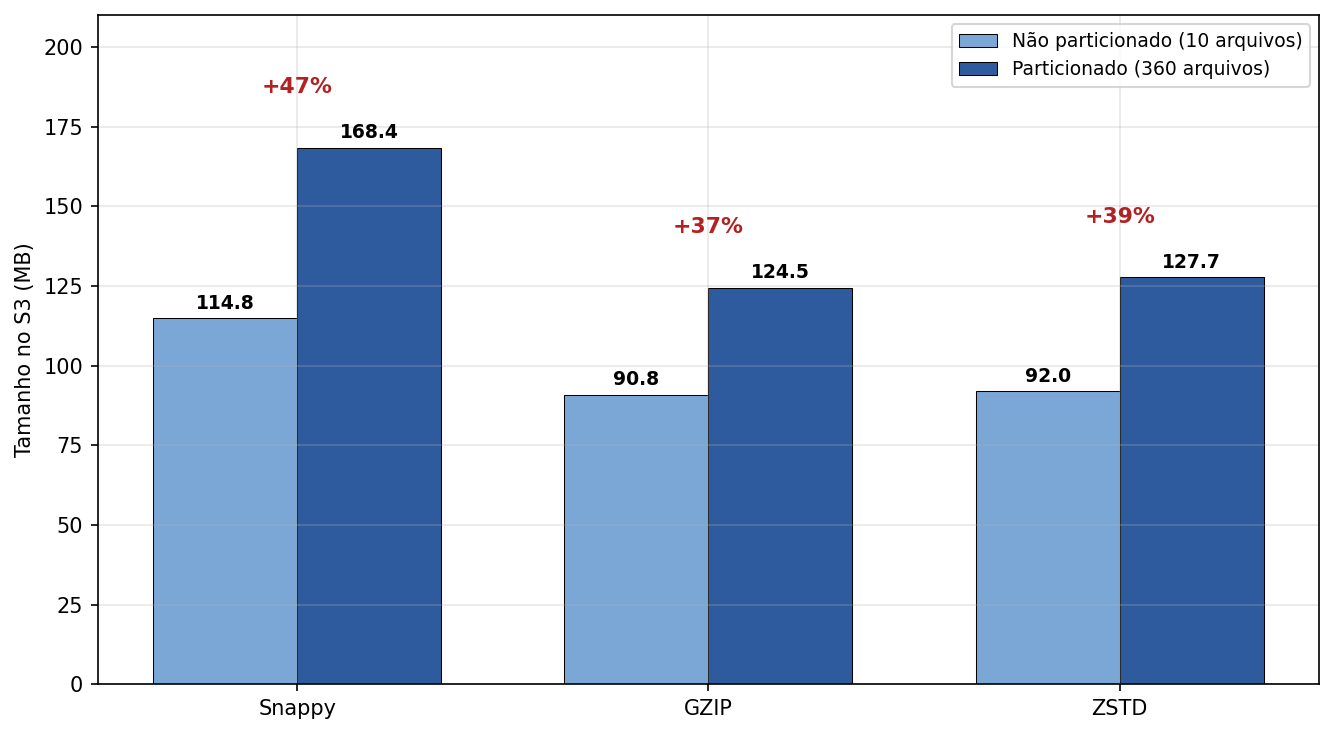
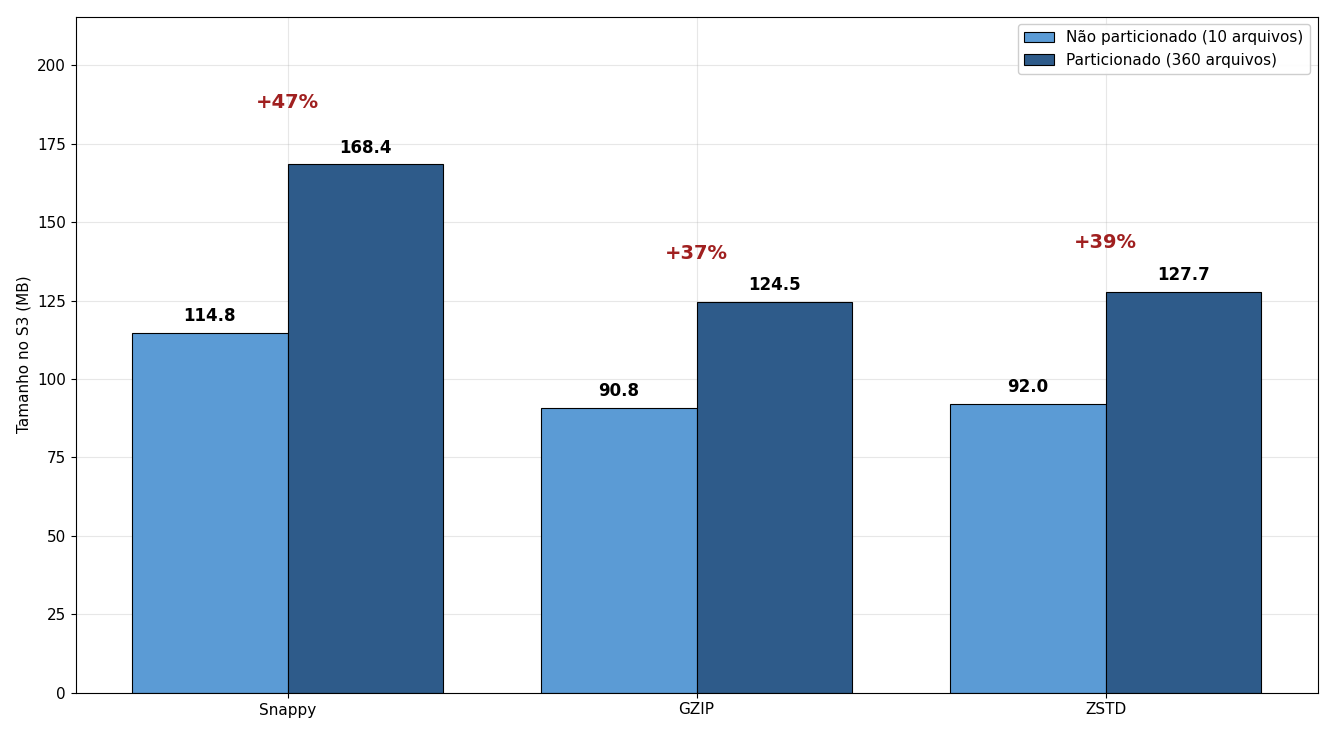
Ajustes nas figuras 1, 2 e 5 + script que gera as figuras

diff --git a/scripts/07_gerar_figuras.py b/scripts/07_gerar_figuras.py
@@ -1,21 +1,27 @@
 """
-07_gerar_figuras.py — Regenera as Figuras 3, 4 e 6 do artigo a partir de
-resultados/medicoes_completas.csv e resultados/armazenamento_s3.csv.
+07_gerar_figuras.py — Gera as seis figuras do artigo a partir de
+resultados/medicoes_completas.csv e resultados/armazenamento_s3.csv, de modo
+que qualquer alteração nos dados se propague às imagens.
 
-Motivação: as três figuras traziam anotações que afirmavam mais do que os dados
-sustentam. Este script as reconstrói a partir da fonte primária, de modo que
-qualquer alteração nos dados se propague às imagens.
+  Figura 1 — poda de partições no layout csv_particionado: volume varrido por
+             consulta, em escala logarítmica, contra a linha do csv_base.
+  Figura 2 — comparação entre os três codecs nos layouts particionados:
+             painel A com volume varrido, painel B com tempo de execução.
+  Figura 3 — volume varrido e tempo de execução para o par controlado em GZIP
+             e o CSV de referência, painel A em escala logarítmica.
+  Figura 4 — efeito isolado do particionamento sobre o tempo, com razão das
+             medianas e valor-p do teste de Mann-Whitney anotados em cada
+             consulta. A cor do rótulo distingue três casos: cor cheia para
+             p < 0,05, cor esmaecida para p = 0,056 (o menor valor não
+             significativo possível com n = 5) e cinza para os demais; verde
+             indica consulta mais rápida com particionamento, vermelho, mais
+             lenta.
+  Figura 5 — efeito do particionamento sobre o espaço em disco, por codec,
+             com a inflação percentual anotada em cada par.
+  Figura 6 — teste de causalidade da consolidação: tempo por consulta em
+             quatro graus de fragmentação e armazenamento físico total, com
+             colchetes ligando os pares comparados.
 
-  Figura 3 — a anotação do painel B indicava "-99% em bytes" apontando para a Q2,
-             cuja redução é de 94,8%. Corrigida para a faixa real das duas
-             consultas sem filtro.
-  Figura 4 — as barras eram coloridas por sentido da razão das medianas
-             ("melhorou"/"piorou"), o que atribuía diferença a casos sem suporte
-             estatístico (a Q4, por exemplo, tem p = 0,222). Passam a ser
-             coloridas por significância, com o valor-p anotado em cada consulta.
-  Figura 6 — a anotação de -25,6% cobria o rótulo da barra de 360 arquivos.
-             Substituída por colchetes ligando os pares comparados, com o -7,4%
-             do par não particionado agora também explicitado.
 
 Uso:
     pip install pandas scipy matplotlib
@@ -44,8 +50,18 @@ ROTULOS = ["Q1\n3 colunas", "Q2\nSELECT *", "Q3\nfiltro mês",
 VERMELHO = "#c0392b"     # csv_base (referência)
 AZUL_CLARO = "#5b9bd5"   # não particionado
 AZUL_ESCURO = "#2e5b8a"  # particionado
-CINZA = "#95a5a6"        # sem diferença estatisticamente detectável
+CINZA = "#95a5a6"        # sem evidência de diferença
+VERDE_FRACO = "#7cb342"  # significância no limiar (p = 0,056)
+VERMELHO_FRACO = "#e57373"
 F6 = ["#a8c4e5", "#4472c4", "#e9967a", "#b22222"]
+# paleta das Figuras 1, 2 e 5
+CINZA_BARRA = "#bdbdbd"      # consulta sem poda de partição
+VERDE_ESCURO = "#1e7a34"     # poda máxima (um mês)
+VERDE_MEDIO = "#63c073"      # poda parcial (um ano)
+VERMELHO_ESCURO = "#a02020"  # linha de referência e rótulos de inflação
+AZUL_CODEC = "#3d6fc4"
+VERDE_CODEC = "#5aa64b"
+AMARELO_CODEC = "#f5b800"
 
 ALFA = 0.05  # nível de significância adotado no artigo
 
@@ -79,8 +95,101 @@ def valor_p(d, a, b, consulta):
                         alternative="two-sided")[1]
 
 
+def milhar(valor):
+    """1751.04 -> '1.751'; 47.73 -> '48' (formato dos rótulos da Figura 1)."""
+    return f"{valor:,.0f}".replace(",", ".")
+
+
 def virgula(valor, casas=2):
     return f"{valor:.{casas}f}".replace(".", ",")
+
+
+# --------------------------------------------------------------------------
+# Figura 1 — poda de partições no layout csv_particionado
+# --------------------------------------------------------------------------
+def figura_1(d):
+    mb = serie(d, "csv_particionado", "mb_varrido")
+    referencia = serie(d, "csv_base", "mb_varrido")[0]
+    # a poda só atua nas consultas que filtram pelas chaves de partição
+    poda = {"Q3": VERDE_ESCURO, "Q4": VERDE_MEDIO}
+
+    fig, ax = plt.subplots(figsize=(14.08, 7.35))
+    x = np.arange(len(CONSULTAS))
+    cores = [poda.get(q, CINZA_BARRA) for q in CONSULTAS]
+
+    ax.bar(x, mb, 0.62, color=cores, edgecolor="black", linewidth=0.8)
+    ax.axhline(referencia, color=VERMELHO_ESCURO, linestyle="--", linewidth=2.2,
+               label=f"csv_base (referência) = {milhar(referencia)} MB")
+
+    ax.set_yscale("log")
+    ax.set_ylim(1, referencia * 6)
+    ax.set_ylabel("MB varridos (escala logarítmica)")
+    ax.set_xticks(x)
+    ax.set_xticklabels(ROTULOS)
+    ax.legend(loc="center right", framealpha=0.95)
+    ax.set_axisbelow(True)
+
+    for xi, valor in zip(x, mb):
+        ax.text(xi, valor * 1.18, milhar(valor), ha="center", va="bottom",
+                fontweight="bold", fontsize=12)
+
+    ax.text(0.055, 0.94, "Poda inativa — varre quase tudo",
+            transform=ax.transAxes, color="#666666", fontsize=12)
+    ax.annotate("Poda ATIVA\n(filtro casa com a partição)",
+                xy=(0.5, 0.62), xycoords="axes fraction",
+                ha="center", va="center", color=VERDE_ESCURO,
+                fontweight="bold", fontsize=13,
+                bbox={"boxstyle": "round,pad=0.5", "facecolor": "#eef7ee",
+                      "edgecolor": VERDE_MEDIO, "linewidth": 1.5})
+
+    fig.tight_layout()
+    destino = SAIDA / "Figura1_pruning_csv.png"
+    fig.savefig(destino, dpi=100, facecolor="white")
+    plt.close(fig)
+    print(f"  {destino.name}: poda ativa na Q3 e na Q4, inativa nas demais")
+
+
+# --------------------------------------------------------------------------
+# Figura 2 — comparação entre codecs nos layouts particionados
+# --------------------------------------------------------------------------
+def figura_2(d):
+    codecs = [("parquet_snappy_part", "Snappy", AZUL_CODEC),
+              ("parquet_gzip_part", "GZIP", VERDE_CODEC),
+              ("parquet_zstd_part", "ZSTD", AMARELO_CODEC)]
+
+    fig, (ax1, ax2) = plt.subplots(2, 1, figsize=(14.08, 11.81))
+    x = np.arange(len(CONSULTAS))
+    largura = 0.26
+
+    for i, (lay, rot, cor) in enumerate(codecs):
+        ax1.bar(x + (i - 1) * largura, serie(d, lay, "mb_varrido"), largura,
+                label=rot, color=cor, edgecolor="black", linewidth=0.4)
+    ax1.set_yscale("log")
+    ax1.set_ylabel("MB varridos (escala log)")
+    ax1.set_title("A) Volume varrido por codec", loc="left")
+    ax1.set_xticks(x)
+    ax1.set_xticklabels(ROTULOS)
+    ax1.legend(loc="upper right", framealpha=0.95)
+    ax1.set_axisbelow(True)
+
+    for i, (lay, rot, cor) in enumerate(codecs):
+        ax2.bar(x + (i - 1) * largura, serie(d, lay, "mediana_s"), largura,
+                yerr=serie(d, lay, "desvio_s"), capsize=3,
+                label=rot, color=cor, edgecolor="black", linewidth=0.4,
+                error_kw={"linewidth": 1.2})
+    ax2.set_ylabel("Tempo — mediana de 5 exec. (s)")
+    ax2.set_title("B) Tempo de execução por codec (barras de erro = desvio-padrão)",
+                  loc="left")
+    ax2.set_xticks(x)
+    ax2.set_xticklabels(ROTULOS)
+    ax2.legend(loc="upper right", framealpha=0.95)
+    ax2.set_axisbelow(True)
+
+    fig.tight_layout()
+    destino = SAIDA / "Figura2_codecs.png"
+    fig.savefig(destino, dpi=100, facecolor="white")
+    plt.close(fig)
+    print(f"  {destino.name}: Snappy, GZIP e ZSTD nos layouts particionados")
 
 
 # --------------------------------------------------------------------------
@@ -119,24 +228,11 @@ def figura_3(d):
     ax2.legend(loc="upper right", framealpha=0.95)
     ax2.set_axisbelow(True)
 
-    # faixa real de redução de bytes nas duas consultas sem filtro
-    mb = d.pivot(index="layout", columns="consulta", values="mb_varrido")
-    reducoes = [100 * (1 - mb.loc[lay, q] / mb.loc["csv_base", q])
-                for q in ("Q1", "Q2") for lay in ("parquet_gzip", "parquet_gzip_part")]
-    texto = (f"sem filtro: tempos\nindistinguíveis do CSV,\n"
-             f"apesar de −{min(reducoes):.0f}% a −{max(reducoes):.0f}% em bytes")
-    ax2.annotate(texto,
-                 xy=(x[1] + largura, serie(d, "parquet_gzip_part", "mediana_s")[1]),
-                 xytext=(x[1] + 0.75, serie(d, "csv_base", "mediana_s")[1] * 0.88),
-                 color=VERMELHO, fontweight="bold", fontsize=11,
-                 arrowprops={"arrowstyle": "->", "color": VERMELHO, "linewidth": 1.6})
-
     fig.tight_layout()
     destino = SAIDA / "Figura3_custo_vs_tempo.png"
     fig.savefig(destino, dpi=100, facecolor="white")
     plt.close(fig)
-    print(f"  {destino.name}: anotação com a faixa real "
-          f"(−{min(reducoes):.0f}% a −{max(reducoes):.0f}%)")
+    print(f"  {destino.name}: painéis A (bytes, log) e B (tempo) sem anotações")
 
 
 # --------------------------------------------------------------------------
@@ -148,6 +244,16 @@ def figura_4(d):
     dp_a, dp_b = serie(d, a, "desvio_s"), serie(d, b, "desvio_s")
     ps = np.array([valor_p(d, a, b, q) for q in CONSULTAS])
     razoes = med_b / med_a
+
+    LIMIAR = 0.056  # menor valor-p não significativo possível com n = 5
+
+    def cor_do_rotulo(razao, p):
+        piorou = razao > 1
+        if p < ALFA:
+            return VERMELHO if piorou else "#2e7d32"
+        if abs(p - LIMIAR) < 1e-9:
+            return VERMELHO_FRACO if piorou else VERDE_FRACO
+        return CINZA
 
     fig, ax = plt.subplots(figsize=(14.15, 8.31))
     x = np.arange(len(CONSULTAS))
@@ -164,37 +270,92 @@ def figura_4(d):
     ax.set_ylabel("Tempo: mediana de 5 exec. (s), escala log")
     ax.set_xticks(x)
     ax.set_xticklabels(ROTULOS)
-    ax.legend(loc="upper right", framealpha=0.95)
+    legenda_series = ax.legend(loc="upper right", framealpha=0.95)
     ax.set_axisbelow(True)
 
-    # rótulo por consulta: razão e valor-p; cor apenas quando há significância
     topo = np.maximum(med_a + dp_a, med_b + dp_b)
     for i, (razao, p) in enumerate(zip(razoes, ps)):
-        significativo = p < ALFA
-        cor = VERMELHO if (significativo and razao > 1) else (
-              "#2e7d32" if significativo else CINZA)
-        ax.text(x[i], topo[i] * 1.30,
+        ax.text(x[i], topo[i] * 1.42,
                 f"{virgula(razao)}×\np = {virgula(p, 3)}",
-                ha="center", va="bottom", color=cor,
+                ha="center", va="bottom", color=cor_do_rotulo(razao, p),
                 fontweight="bold", fontsize=11, linespacing=1.3)
 
-    n_sig = int((ps < ALFA).sum())
-    ax.text(0.012, 0.975,
-            "Razão particionado/não particionado. A cor indica significância "
-            f"estatística (Mann-Whitney, p < {virgula(ALFA)});\n"
-            f"cinza = diferença não detectável. {n_sig} de {len(CONSULTAS)} "
-            "comparações atingem significância.",
-            transform=ax.transAxes, ha="left", va="top",
-            color="#555555", fontsize=10.5, linespacing=1.4)
+    from matplotlib.patches import Patch
+    chave = [
+        Patch(facecolor=VERDE_FRACO, edgecolor="none",
+              label="mais rápida · limiar (p = 0,056)"),
+        Patch(facecolor=CINZA, edgecolor="none",
+              label="sem evidência de diferença"),
+        Patch(facecolor=VERMELHO_FRACO, edgecolor="none",
+              label="mais lenta · limiar (p = 0,056)"),
+        Patch(facecolor=VERMELHO, edgecolor="none",
+              label="mais lenta · significativa (p < 0,05)"),
+    ]
+    legenda_cores = ax.legend(
+        handles=chave, loc="upper center", bbox_to_anchor=(0.5, -0.13),
+        ncol=4, frameon=False, fontsize=10.5, handlelength=1.4,
+        handleheight=1.0, columnspacing=2.0,
+        title="Cor do rótulo — sentido do efeito e força da evidência "
+              "(0,056 é o menor valor-p não significativo possível com n = 5)")
+    legenda_cores.get_title().set_fontsize(10.5)
+    legenda_cores.get_title().set_color("#555555")
+    for texto in legenda_cores.get_texts():
+        texto.set_color("#555555")
+    ax.add_artist(legenda_series)
 
-    ax.set_ylim(top=ax.get_ylim()[1] * 2.6)
+    ax.set_ylim(top=ax.get_ylim()[1] * 1.9)
     fig.tight_layout()
     destino = SAIDA / "Figura4_efeito_particionamento.png"
     fig.savefig(destino, dpi=100, facecolor="white")
     plt.close(fig)
-    print(f"  {destino.name}: {n_sig} de 6 coloridas por significância "
-          f"({', '.join(q for q, p in zip(CONSULTAS, ps) if p < ALFA)})")
+    n_sig = int((ps < ALFA).sum())
+    n_lim = int(np.isclose(ps, LIMIAR).sum())
+    print(f"  {destino.name}: {n_sig} significativa(s), {n_lim} no limiar")
 
+
+# --------------------------------------------------------------------------
+# Figura 5 — efeito do particionamento sobre o armazenamento, por codec
+# --------------------------------------------------------------------------
+def figura_5(s):
+    pares = [("Snappy", "parquet_snappy", "parquet_snappy_part"),
+             ("GZIP", "parquet_gzip", "parquet_gzip_part"),
+             ("ZSTD", "parquet_zstd", "parquet_zstd_part")]
+    tam = s.set_index("layout")["tamanho_mb"]
+
+    fig, ax = plt.subplots(figsize=(13.34, 7.34))
+    x = np.arange(len(pares))
+    largura = 0.38
+
+    nao_part = [tam[a] for _, a, _ in pares]
+    part = [tam[b] for _, _, b in pares]
+
+    ax.bar(x - largura / 2, nao_part, largura, label="Não particionado (10 arquivos)",
+           color=AZUL_CLARO, edgecolor="black", linewidth=0.8)
+    ax.bar(x + largura / 2, part, largura, label="Particionado (360 arquivos)",
+           color=AZUL_ESCURO, edgecolor="black", linewidth=0.8)
+
+    ax.set_ylabel("Tamanho no S3 (MB)")
+    ax.set_xticks(x)
+    ax.set_xticklabels([nome for nome, _, _ in pares])
+    ax.set_ylim(0, max(part) * 1.28)
+    ax.legend(loc="upper right", framealpha=0.95)
+    ax.set_axisbelow(True)
+
+    folga = max(part) * 0.015
+    for xi, (a, b) in enumerate(zip(nao_part, part)):
+        ax.text(xi - largura / 2, a + folga, virgula(a, 1).replace(",", "."),
+                ha="center", va="bottom", fontweight="bold", fontsize=12)
+        ax.text(xi + largura / 2, b + folga, virgula(b, 1).replace(",", "."),
+                ha="center", va="bottom", fontweight="bold", fontsize=12)
+        ax.text(xi, b * 1.10, f"+{100 * (b / a - 1):.0f}%", ha="center", va="bottom",
+                color=VERMELHO_ESCURO, fontweight="bold", fontsize=14)
+
+    fig.tight_layout()
+    destino = SAIDA / "Figura5_paradoxo_armazenamento.png"
+    fig.savefig(destino, dpi=100, facecolor="white")
+    plt.close(fig)
+    inflacoes = [f"+{100 * (b / a - 1):.0f}%" for a, b in zip(nao_part, part)]
+    print(f"  {destino.name}: inflação de {', '.join(inflacoes)} por codec")
 
 # --------------------------------------------------------------------------
 # Figura 6 — teste de consolidação de arquivos
@@ -261,11 +422,12 @@ def main():
     d, s = carregar()
     SAIDA.mkdir(exist_ok=True)
     print(f"Fonte: {len(d)} combinações × 5 execuções")
+    figura_1(d)
+    figura_2(d)
     figura_3(d)
     figura_4(d)
+    figura_5(s)
     figura_6(d, s)
-    print("\nFiguras 1, 2 e 5 não são regeneradas por este script: "
-          "não apresentavam inconsistências.")
 
 
 if __name__ == "__main__":

diff --git a/README.md b/README.md
@@ -54,11 +54,11 @@ Os dois últimos pertencem ao teste de consolidação (isolam a fragmentação e
 ├── scripts/
 │   ├── 01_limpeza_dados_brutos.py      Consolidação e limpeza dos 36 CSVs (Python/pandas)
 │   ├── 02_athena_setup_baseline.sql    Database + tabela externa do CSV base
-│   ├── 03_athena_geracao_layouts.sql   CTAS dos 8 layouts (formato × partição × codec)
+│   ├── 03_athena_geracao_layouts.sql   CTAS dos 7 layouts derivados do CSV base
 │   ├── 04_athena_benchmark_marcado.sql As 6 consultas × 8 layouts, com marcadores
 │   ├── 05_layouts_unicos_gzip.sql      Teste de causalidade da fragmentação (bucketing)
 │   ├── 06_analise_estatistica.py       Custos (Tabela 2), testes de Mann-Whitney e CV
-│   └── 07_gerar_figuras.py             Regenera as Figuras 3, 4 e 6 a partir das medições
+│   └── 07_gerar_figuras.py             Gera as seis figuras do artigo a partir das medições
 ├── resultados/
 │   ├── medicoes_completas.csv          As 5 execuções de cada combinação (60 linhas)
 │   ├── resumo_medianas.csv             Mediana e desvio por combinação (Tabelas 1, 3 e 7)
@@ -149,16 +149,13 @@ Todos os testes são bilaterais, sobre as 5 execuções de cada combinação. Co
 o menor valor-p atingível é **0,008** — valores-p elevados indicam ausência de evidência de
 diferença, não equivalência demonstrada.
 
-### 6. Regenerar as figuras
+### 6. Gerar as figuras
 ```bash
 pip install pandas scipy matplotlib
 python scripts/07_gerar_figuras.py
 ```
-Reconstrói as Figuras 3, 4 e 6 a partir de `resultados/medicoes_completas.csv` e
-`resultados/armazenamento_s3.csv`, de modo que qualquer alteração nos dados se propague às
-imagens. A Figura 4 é colorida por significância estatística, e não pelo sentido da razão das
-medianas. As Figuras 1, 2 e 5 não são regeneradas por este script.
-
+Produz as seis figuras do artigo a partir de `resultados/medicoes_completas.csv` e `resultados/armazenamento_s3.csv`, 
+de modo que qualquer alteração nos dados se propague às imagens. 
 ---
 
 ## Stack